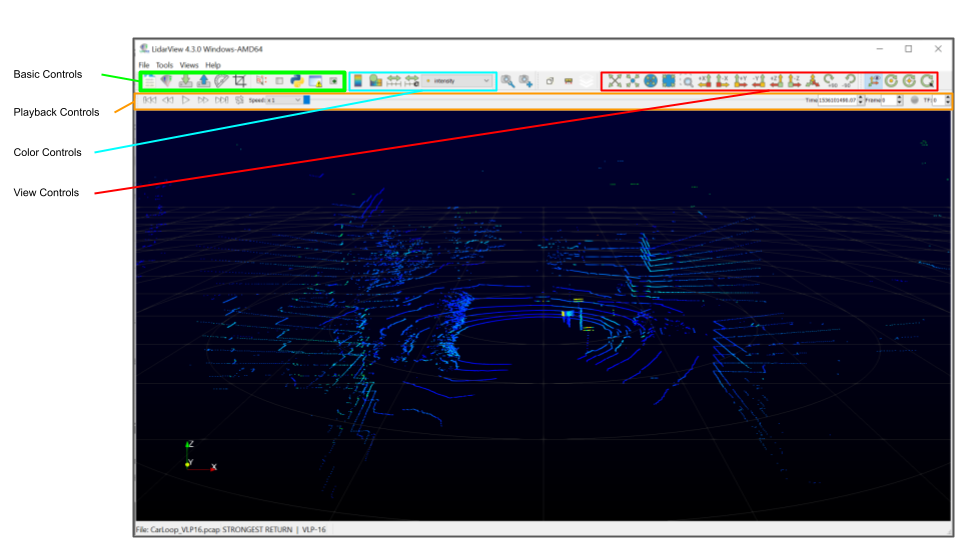
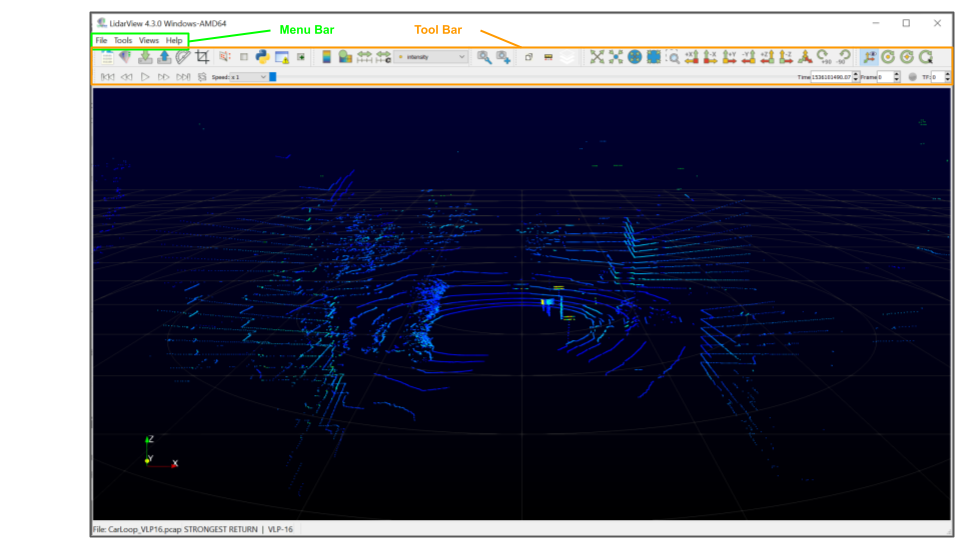
Expanded on user inferface description
Expanded on the description of the LidarView UI including added
a close up screenshot of the Menu and Toolbar as well as giving
more detailed breakdown of the Toolbar.

diff --git a/doc/BasicUsage.rst b/doc/BasicUsage.rst
@@ -20,12 +20,26 @@ User Interface
 The **LidarView** GUI conforms to the platform on which it is running, but on
 all platforms it behaves basically the same. The layout shown here is
 the default layout given when **LidarView** is first started. The GUI
-includes the following components in the toolbar at the top of the application.
+includes a Menu Bar as well as a Tool Bar that give access to the various
+features of the application.
 
-Basic Controls
-    This part of toolbar includes buttons to manage opening and saving files and
-    to turn additional windows in the GUI such as the python console and the
-    spreadsheet view.
+Menu Bar
+    This gives access to File related options like opening PCAP files and
+    sensor streams, a Tools and View menu, and a general Help menu.
+
+.. figure:: ./images/MenuAndToolbar.png
+
+The Tool Bar can be broked up into several separate sections described below.
+
+Open Data Toolbar
+    This part of the toolbar includes buttons to manage opening PCAP files and
+    sensor streams, loading and saving **LidarView** state files, and importing
+    calibration files.
+
+Shortcuts Toolbar
+    This section of the toolbar gives quick access to the spreadsheet view and
+    the python and error consoles as wells as the ability to selects points from
+    the current active data.
 
 Playback Controls
     These controls allow the user to temporally navigate the Lidar data. The
@@ -46,8 +60,8 @@ Opening PCAP File
 
 There are two ways to get Lidar data into LidarView. You can connect to a sensor
 steam or open a recorded sensor stream saved to a PCAP file. To open a PCAP file
-into LidarView click on the Open Data File button |OpenPCAP| in the Basic
-Controls section of the toolbar, select the PCAP file you wish to open and click
+into LidarView click on the Open PCAP File button |OpenPCAP| in the Open Data
+section of the toolbar, select the PCAP file you wish to open and click
 OK, and then select the appropriate sensor interpeter and click OK. You should
 now see the first frame of the saved sensor data displayed in the main render
 view.
